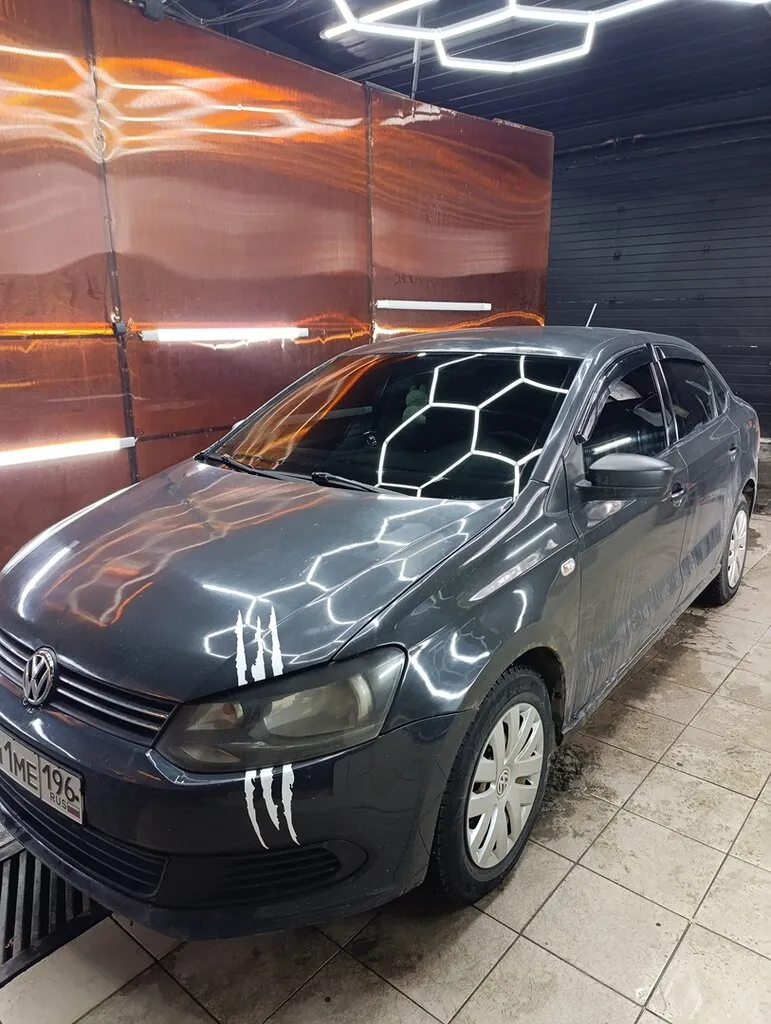
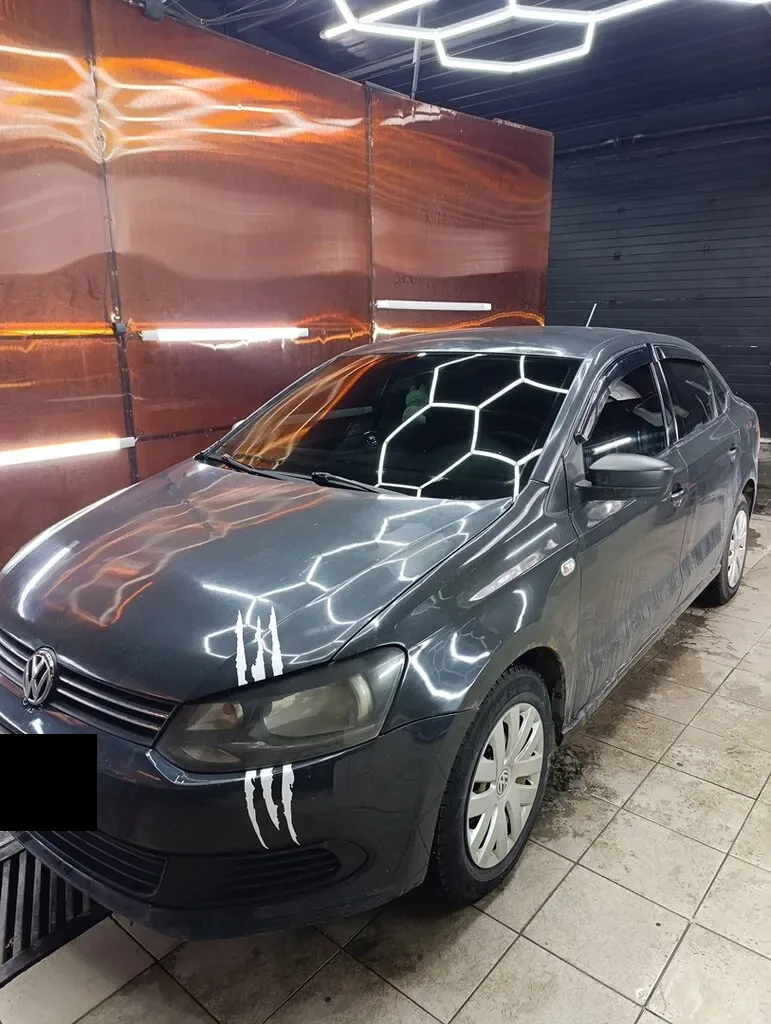
feat: галерея снова со снимками с карточки Яндекс.Бизнеса
Владельцу не понравилось, как свои кадры смотрелись на страницах услуг.
Вернул 21 снимок с карточки организации, разделы прежние: Оклейка, Мойка,
Студия, Детали. Раскладку по услугам переписал под них — «Студия» идёт
замыкающей, снимки бокса подходят любой услуге и не выдают чужую работу
за свою.

Закрасил чужие госномера на work-4, work-9, work-15 и на обложке
tonirovka.webp. Миниатюры пересобраны из закрашенных версий, иначе номер
остался бы виден в превью.

Свои снимки (okl-*, shum-* и прочие) оставлены в репозитории, но нигде
не используются — на случай, если решение поменяется.

Changed region(s): [[0.0, 0.7188, 0.1245, 0.8125]]

diff --git a/inc/pages/service.php b/inc/pages/service.php
@@ -40,18 +40,19 @@ if ($minPrice === PHP_INT_MAX) {
 /* Фото внизу страницы. Первая категория в списке — своя, остальные идут
    добором, если своих снимков не набралось на ряд. Порядок важен: сначала
    показываем работу по этой услуге и только потом что-то смежное. */
+// Разделы галереи — как на карточке организации в Яндексе: Оклейка, Мойка,
+// Студия, Детали. Профильных кадров по каждой услуге в этом наборе нет,
+// поэтому вторым и третьим идут родственные разделы, а «Студия» замыкает:
+// снимки бокса подходят любой услуге и не выдают чужую работу за свою.
 $want = [
-    'oklejka-plenkoj'        => ['Оклейка'],
-    // Своих снимков по керамике и мойке пока нет — добираем полировкой
-    // и оклейкой: это тот же бокс и родственная работа, а не выдача
-    // чужой услуги за свою. Появятся профильные кадры — станут первыми.
-    'antigraviynaya-plenka'  => ['Антигравийка', 'Оклейка'],
-    'tonirovka'              => ['Оптика', 'Оклейка'],
-    'mojka'                  => ['Полировка', 'Оклейка'],
-    'polirovka'              => ['Полировка', 'Оклейка'],
-    'keramika'               => ['Полировка', 'Оклейка'],
-    'himchistka'             => ['Химчистка', 'Шумоизоляция'],
-    'shumoizolyaciya'        => ['Шумоизоляция'],
+    'oklejka-plenkoj'        => ['Оклейка', 'Детали', 'Студия'],
+    'antigraviynaya-plenka'  => ['Оклейка', 'Детали', 'Студия'],
+    'tonirovka'              => ['Оклейка', 'Детали', 'Студия'],
+    'mojka'                  => ['Мойка', 'Студия'],
+    'polirovka'              => ['Детали', 'Оклейка', 'Студия'],
+    'keramika'               => ['Оклейка', 'Мойка', 'Студия'],
+    'himchistka'             => ['Мойка', 'Студия'],
+    'shumoizolyaciya'        => ['Детали', 'Студия'],
 ][$slug] ?? [];
 $byCat = [];
 foreach (gallery() as $g) {
